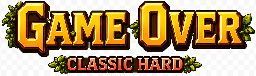
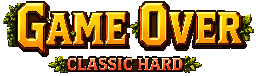
Release 1.0.86

diff --git a/android/app/src/main/assets/public/version-info.js b/android/app/src/main/assets/public/version-info.js
@@ -1,8 +1,8 @@
 window.HrrraVersionInfo = Object.freeze({
-  versionCode: 85,
-  versionName: "1.0.85",
+  versionCode: 86,
+  versionName: "1.0.86",
   whatsNew: [
-  "Top-right life HUD now scales with the window.",
-  "Advanced mode no longer shows the extra Jump Advanced label in the in-game lives HUD."
+  "Added the updated Advanced and Classic hard game-over artwork into the release bundle.",
+  "Top-right life HUD now scales with the window."
 ]
 });

diff --git a/version-info.js b/version-info.js
@@ -1,8 +1,8 @@
 window.HrrraVersionInfo = Object.freeze({
-  versionCode: 85,
-  versionName: "1.0.85",
+  versionCode: 86,
+  versionName: "1.0.86",
   whatsNew: [
-  "Top-right life HUD now scales with the window.",
-  "Advanced mode no longer shows the extra Jump Advanced label in the in-game lives HUD."
+  "Added the updated Advanced and Classic hard game-over artwork into the release bundle.",
+  "Top-right life HUD now scales with the window."
 ]
 });

diff --git a/www/version-info.js b/www/version-info.js
@@ -1,8 +1,8 @@
 window.HrrraVersionInfo = Object.freeze({
-  versionCode: 85,
-  versionName: "1.0.85",
+  versionCode: 86,
+  versionName: "1.0.86",
   whatsNew: [
-  "Top-right life HUD now scales with the window.",
-  "Advanced mode no longer shows the extra Jump Advanced label in the in-game lives HUD."
+  "Added the updated Advanced and Classic hard game-over artwork into the release bundle.",
+  "Top-right life HUD now scales with the window."
 ]
 });

diff --git a/CHANGES.md b/CHANGES.md
@@ -1,5 +1,6 @@
 # Hrrra - Working Changes Log
 
+- 2026-05-12: Bumped the release metadata to `1.0.86` / `versionCode 86` so the updated Advanced and Classic hard game-over PNG assets can ship in a fresh Android bundle.
 - 2026-05-12: Bumped the release metadata to `1.0.85` / `versionCode 85` and refreshed the live update text in `version-info.js` and `version.json` to match the current HUD release.
 - 2026-05-12: Hid the `Jump Advanced` label from the in-game mode switch and forced the top-right lives row to use the same right-side HUD slot as the classic mode so the Advanced HUD matches the Classic layout while still showing its own life count.
 - 2026-05-12: Reworked the top-right life HUD in `game.js` and `style.css` so the mode switch positions and heart sizes are recalculated from the current `#game-shell` dimensions instead of staying tied to fixed overlay offsets.

diff --git a/prompts.md b/prompts.md
@@ -465,3 +465,5 @@ pri zmenšeném okne je videt, ze pozice je stále pevná. tedy pokud jsi dělal
 -------------------
 v advaneced easy modu jsou srdíčka zobrazována uplně divně . Je tam navíc ten text jump advanced, který tam nepatří a srdíčka dej na stejné místo se stejnou logikou jako u classic easy modu. Jen je rozdíl v počtu životů tady v tom modu, to je v poradku
 -------------------
+teckované soubory jsou moje backup, pptx je pomocný soubor, ale ty dva png soubory urcite do commitu zarh. pokud tam tedy nejsou, tak je pridej. stejne tak pokud nejsou v aab, tak jej priprav znovu i s nima
+-------------------
